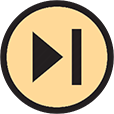
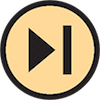
js: skip modified, css: skip image size and opacity modified

diff --git a/game/intro.js b/game/intro.js
@@ -6,12 +6,17 @@
 window.onload = function() {
     var video = document.getElementById('animation');
     var skip = document.getElementById('skip_button');
+    skip.addEventListener('click', function () {
+        video.onended();
+    }, false);
     video.onended = function() {
         video.remove();
         skip.remove();
         document.getElementById('background_intro').style.display = 'block';
     };
 };
+
+
 
 function next (number) {
     // document.getElementById('instructions').style.display = 'none'

diff --git a/game/index.html b/game/index.html
@@ -15,7 +15,7 @@
     </head>
     <body>
         <div id="gameName">Vikings new clothes: bears game</div>
-        <video id="animation" autoplay controls>
+        <video id="animation" autoplay>
             <!-- <source src="video/duel.ogv" type='video/ogg; codecs="theora, vorbis"'> -->
             <source src="../../animation1.mp4" type='video/mp4; codecs="avc1.42E01E, mp4a.40.2"'/>
             <!-- <source src="video/duel.webm" type='video/webm; codecs="vp8, vorbis"'> -->

diff --git a/game/style.css b/game/style.css
@@ -18,11 +18,12 @@ video  {
 
 #skip_button {
     background-image: url(images/skip_button.png);
-    height: 114px;
-    width: 114px;
+    height: 100px;
+    width: 100px;
     position: absolute;
     bottom: 100px;
-    right: 100px;
+    right: 60px;
+    opacity: 0.4;
 }
 
 #background_intro {
